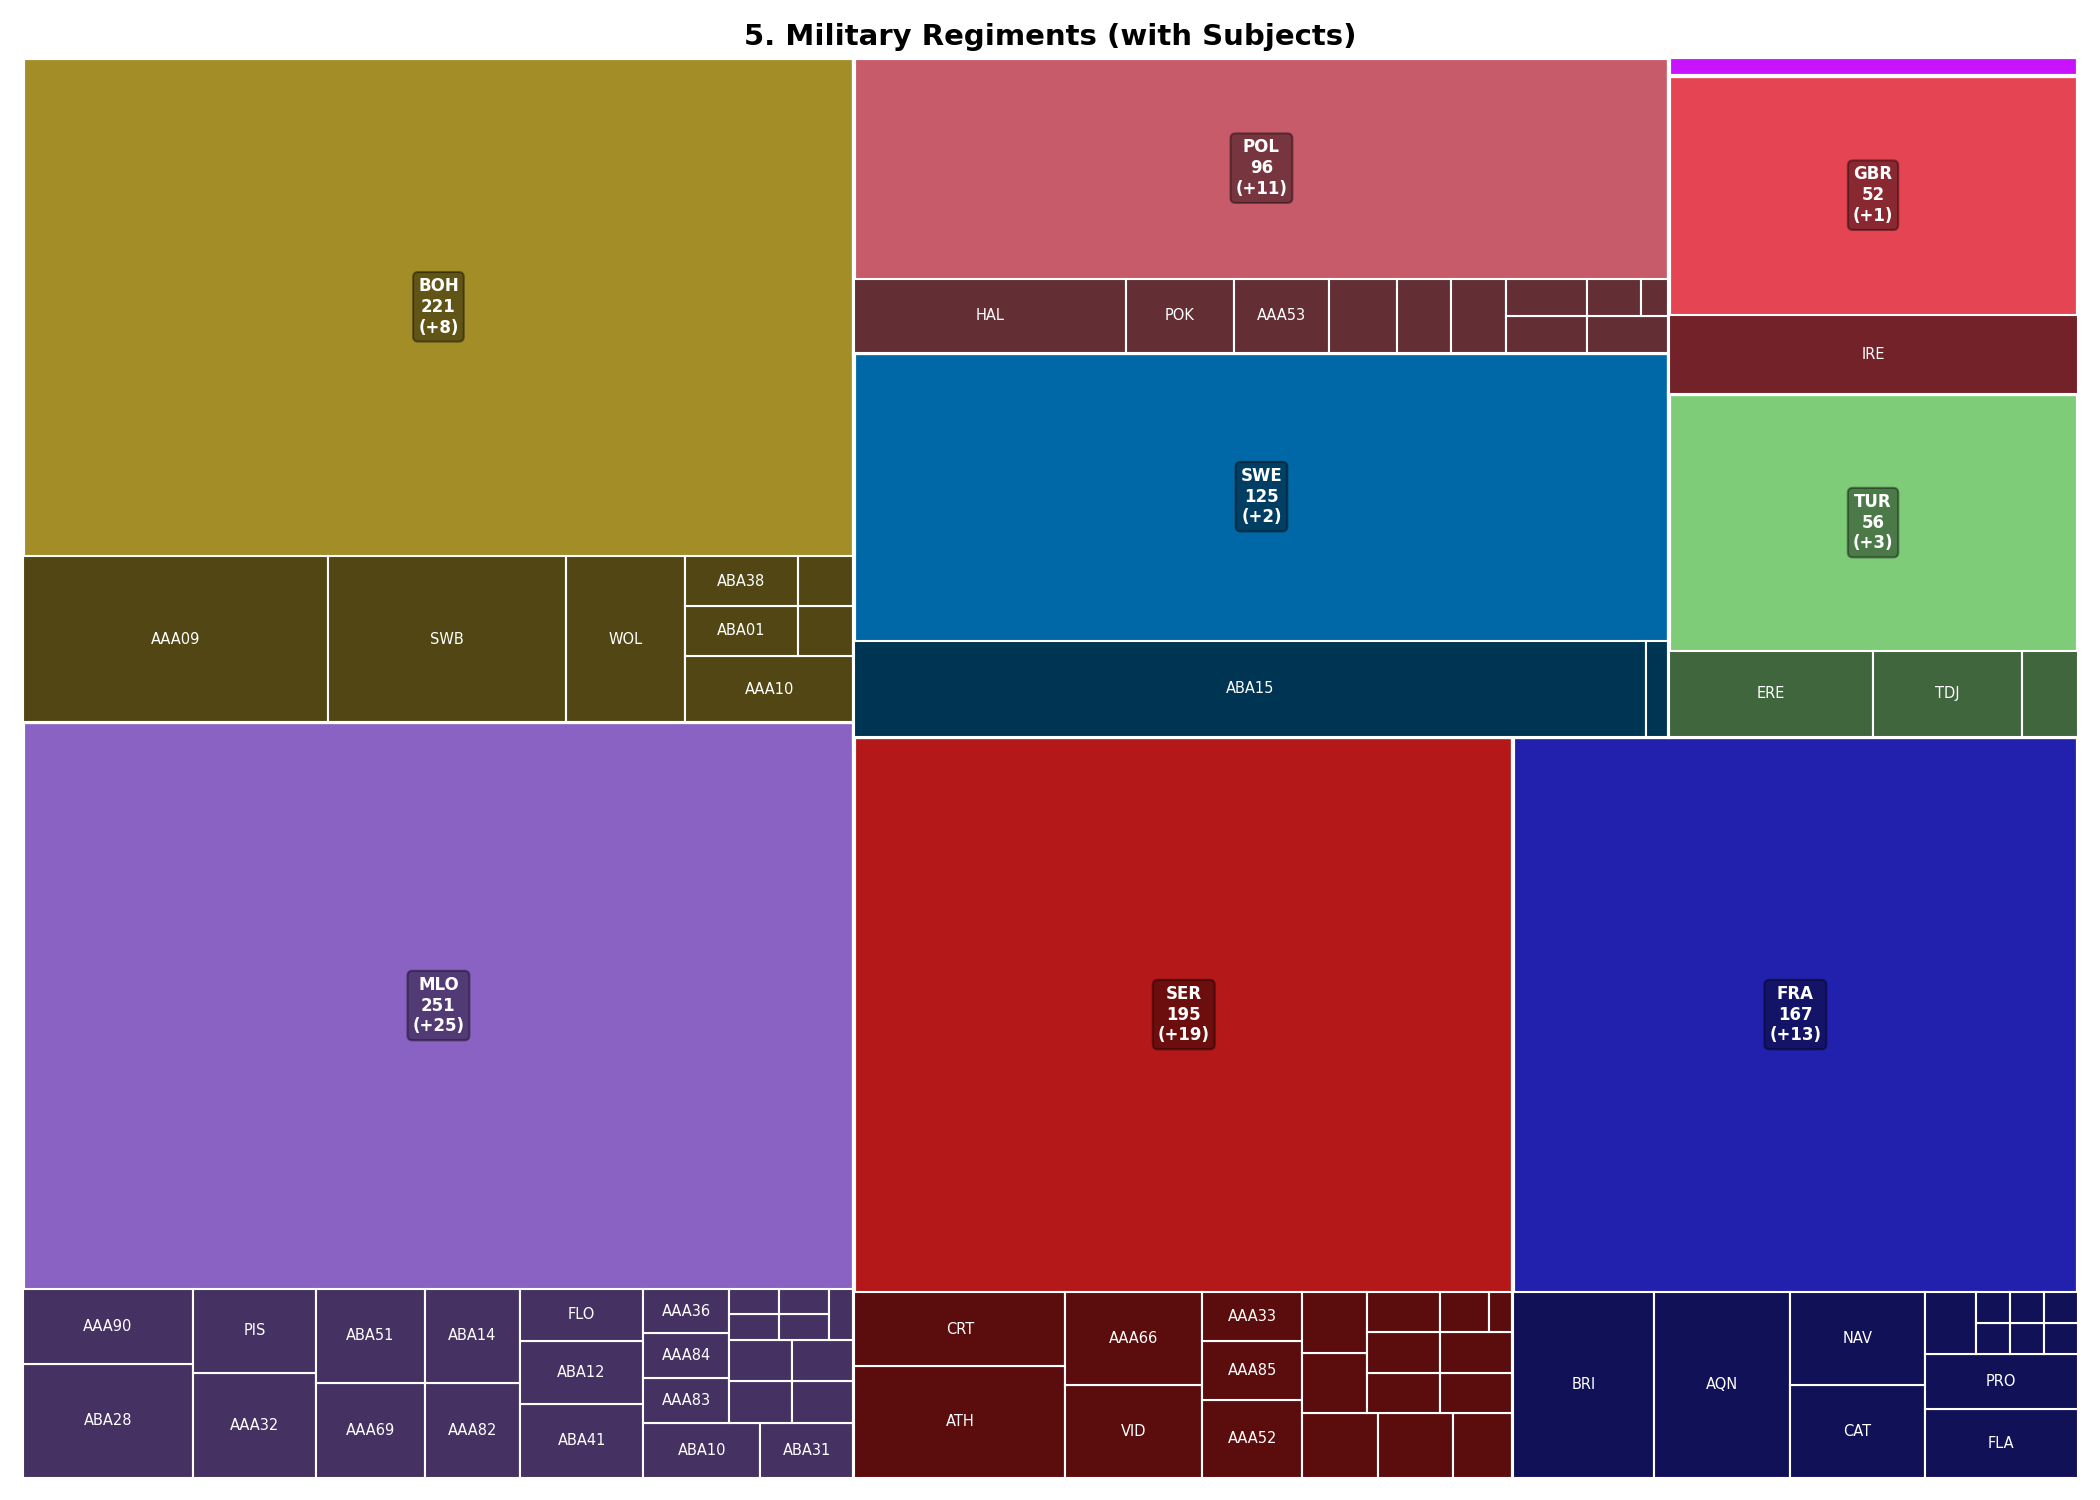
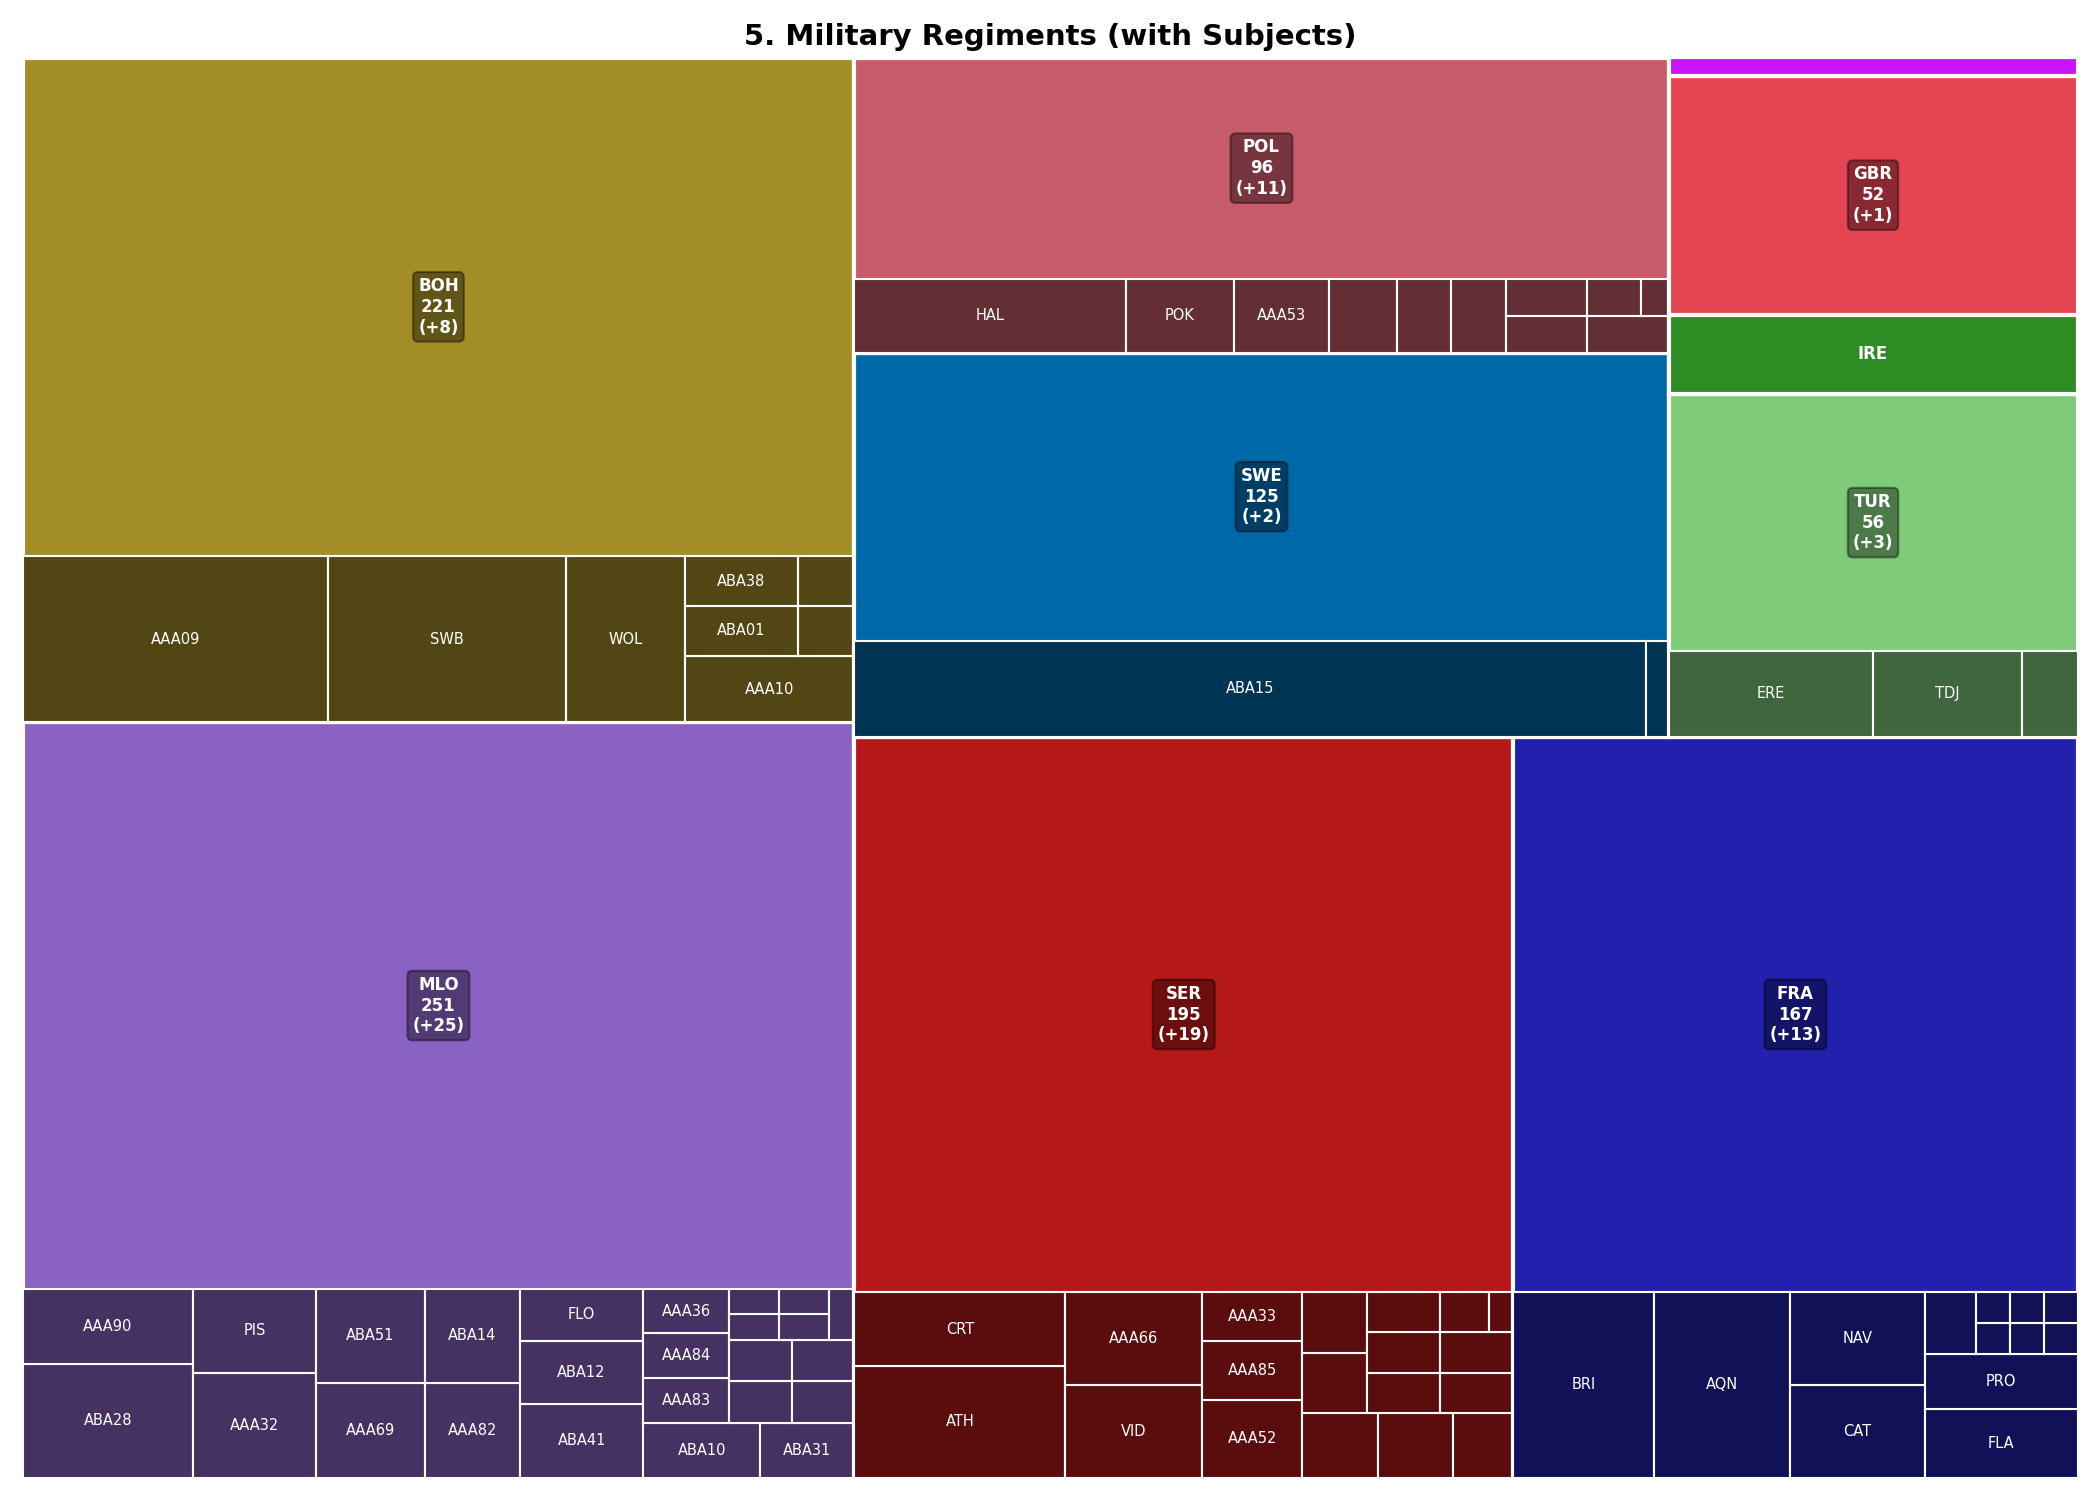
Show player-controlled subjects with their own color in treemaps
- Player subjects (e.g., IRE under GBR) now display with their own color
- Player subjects show their own nested subjects inside their box
- Player subjects have thicker borders and bold labels
- AI subjects continue to use darkened overlord color

Changed region(s): [[0.7738, 0.184, 0.9905, 0.276]]

diff --git a/compare_players_v2.py b/compare_players_v2.py
@@ -570,8 +570,11 @@ def simple_treemap(ax, sizes, labels, colors, title):
         horizontal = not horizontal
 
 
-def nested_treemap_with_subjects(ax, countries, color_map, get_country_value, get_subject_value, title):
-    """Create a treemap with nested subject boxes inside each country's box using squarify."""
+def nested_treemap_with_subjects(ax, countries, color_map, get_country_value, get_subject_value, title, player_tags=None):
+    """Create a treemap with nested subject boxes inside each country's box using squarify.
+
+    Player-controlled subjects get their own color and show their own subjects nested inside.
+    """
     import matplotlib.patches as mpatches
 
     try:
@@ -580,14 +583,26 @@ def nested_treemap_with_subjects(ax, countries, color_map, get_country_value, ge
         ax.text(0.5, 0.5, "squarify not installed", ha='center', va='center')
         return
 
-    # Build data: (country, own_value, subject_values, total_value)
+    if player_tags is None:
+        player_tags = set()
+    else:
+        player_tags = set(player_tags)
+
+    # Build subject lookup by tag for player-controlled subjects
+    subject_lookup = {c.tag: c for c in countries}
+    for c in countries:
+        for s in c.subject_data:
+            subject_lookup[s.tag] = s
+
+    # Build data: (country, own_value, subject_data_list, total_value)
     data = []
     for c in countries:
         country_val = get_country_value(c)
-        subject_vals = [(s.tag, get_subject_value(s)) for s in c.subject_data if get_subject_value(s) > 0]
-        total_val = country_val + sum(sv for _, sv in subject_vals)
+        # Get subject stats objects, not just (tag, value) tuples
+        subject_list = [(s, get_subject_value(s)) for s in c.subject_data if get_subject_value(s) > 0]
+        total_val = country_val + sum(sv for _, sv in subject_list)
         if total_val > 0:
-            data.append((c, country_val, subject_vals, total_val))
+            data.append((c, country_val, subject_list, total_val))
 
     if not data:
         return
@@ -604,7 +619,65 @@ def nested_treemap_with_subjects(ax, countries, color_map, get_country_value, ge
     ax.axis('off')
     ax.set_title(title, fontsize=14, fontweight='bold')
 
-    for i, (c, country_val, subject_vals, total_val) in enumerate(data):
+    def draw_subjects_in_box(subjects_with_vals, box_x, box_y, box_w, box_h, parent_color, depth=0):
+        """Recursively draw subjects in a box. Player subjects get own color and show their subjects."""
+        if not subjects_with_vals or box_w < 3 or box_h < 3:
+            return
+
+        subj_sizes = [sv for _, sv in sorted(subjects_with_vals, key=lambda x: x[1], reverse=True)]
+        subj_objs = [s for s, _ in sorted(subjects_with_vals, key=lambda x: x[1], reverse=True)]
+
+        if not subj_sizes:
+            return
+
+        subj_rects = squarify.normalize_sizes(subj_sizes, box_w, box_h)
+        subj_rects = squarify.squarify(subj_rects, box_x, box_y, box_w, box_h)
+
+        for j, sr in enumerate(subj_rects):
+            if j >= len(subj_objs):
+                break
+            subj = subj_objs[j]
+            sx, sy, sw, sh = sr['x'], sr['y'], sr['dx'], sr['dy']
+
+            is_player_subject = subj.tag in player_tags
+
+            if is_player_subject:
+                # Player-controlled subject: use their own color
+                subj_color = color_map.get(subj.tag, (0.5, 0.5, 0.5))
+                border_width = 2
+            else:
+                # AI subject: darker shade of parent color
+                subj_color = (parent_color[0] * 0.5, parent_color[1] * 0.5, parent_color[2] * 0.5)
+                border_width = 1
+
+            subj_rect = mpatches.Rectangle((sx, sy), sw, sh,
+                                           facecolor=subj_color, edgecolor='white', linewidth=border_width)
+            ax.add_patch(subj_rect)
+
+            # If player subject has its own subjects, draw them nested (bottom 30% of their box)
+            if is_player_subject and subj.subject_data and sw > 5 and sh > 5:
+                nested_subjs = [(ns, get_subject_value(ns)) for ns in subj.subject_data if get_subject_value(ns) > 0]
+                if nested_subjs:
+                    nested_h = sh * 0.30
+                    draw_subjects_in_box(nested_subjs, sx, sy, sw, nested_h, subj_color, depth + 1)
+                    # Adjust label position for player subject with nested subjects
+                    label_y = sy + nested_h + (sh - nested_h) / 2
+                else:
+                    label_y = sy + sh / 2
+            else:
+                label_y = sy + sh / 2
+
+            # Label if big enough
+            if sw > 4 and sh > 3:
+                fontsize = 8 if is_player_subject else 7
+                label_text = subj.tag
+                if is_player_subject and subj.subject_data:
+                    label_text += f"\n+{len(subj.subject_data)}"
+                ax.text(sx + sw / 2, label_y, label_text,
+                       ha='center', va='center', fontsize=fontsize, color='white',
+                       fontweight='bold' if is_player_subject else 'normal')
+
+    for i, (c, country_val, subject_list, total_val) in enumerate(data):
         r = rects[i]
         x, y, w, h = r['x'], r['y'], r['dx'], r['dy']
         color = color_map.get(c.tag, (0.5, 0.5, 0.5))
@@ -614,42 +687,20 @@ def nested_treemap_with_subjects(ax, countries, color_map, get_country_value, ge
         ax.add_patch(rect)
 
         # Draw nested subjects inside (bottom portion)
-        if subject_vals and w > 5 and h > 5:
+        if subject_list and w > 5 and h > 5:
             # Subjects take bottom 25% of the box
             subj_height = h * 0.25
-            subj_y = y
-
-            # Use squarify for subject layout within the country box
-            subj_sizes = [sv for _, sv in sorted(subject_vals, key=lambda x: x[1], reverse=True)]
-            subj_tags = [st for st, _ in sorted(subject_vals, key=lambda x: x[1], reverse=True)]
-
-            if subj_sizes:
-                subj_rects = squarify.normalize_sizes(subj_sizes, w, subj_height)
-                subj_rects = squarify.squarify(subj_rects, x, subj_y, w, subj_height)
-
-                for j, sr in enumerate(subj_rects):
-                    if j >= len(subj_tags):
-                        break
-                    sx, sy, sw, sh = sr['x'], sr['y'], sr['dx'], sr['dy']
-                    # Darker shade for subjects
-                    subj_color = (color[0] * 0.5, color[1] * 0.5, color[2] * 0.5)
-                    subj_rect = mpatches.Rectangle((sx, sy), sw, sh,
-                                                   facecolor=subj_color, edgecolor='white', linewidth=1)
-                    ax.add_patch(subj_rect)
-                    # Label if big enough
-                    if sw > 4 and sh > 3:
-                        ax.text(sx + sw / 2, sy + sh / 2, subj_tags[j],
-                               ha='center', va='center', fontsize=7, color='white')
+            draw_subjects_in_box(subject_list, x, y, w, subj_height, color)
 
         # Main label (centered in upper portion if subjects, else centered)
-        if subject_vals:
+        if subject_list:
             cx, cy = x + w / 2, y + h * 0.25 + (h * 0.75) / 2
         else:
             cx, cy = x + w / 2, y + h / 2
 
         label = f"{c.tag}\n{total_val:,.0f}"
-        if subject_vals:
-            label += f"\n(+{len(subject_vals)})"
+        if subject_list:
+            label += f"\n(+{len(subject_list)})"
 
         # Adjust font size based on box size
         fontsize = min(12, max(8, int(min(w, h) / 8)))
@@ -734,12 +785,16 @@ def create_graphs(countries: list[CountryStats], save_dir: Path):
 
     # === TREEMAP CHARTS (with subjects) ===
 
+    # Get all player tags for identifying player-controlled subjects
+    player_tag_set = set(c.tag for c in countries)
+
     # Treemap: Population with Subjects
     fig, ax = plt.subplots(figsize=(14, 10))
     countries_sorted = sorted(independent_countries, key=lambda c: c.total_population, reverse=True)
     nested_treemap_with_subjects(ax, countries_sorted, color_map,
                                 lambda c: c.population, lambda s: s.population,
-                                f'{chart_num}. Population (with Subjects)')
+                                f'{chart_num}. Population (with Subjects)',
+                                player_tags=player_tag_set)
     plt.tight_layout()
     plt.savefig(save_dir / f'{chart_num:02d}_treemap_population.png', dpi=150)
     print(f"  Saved: {chart_num:02d}_treemap_population.png")
@@ -751,7 +806,8 @@ def create_graphs(countries: list[CountryStats], save_dir: Path):
     countries_sorted = sorted(independent_countries, key=lambda c: c.total_tax_base, reverse=True)
     nested_treemap_with_subjects(ax, countries_sorted, color_map,
                                 lambda c: c.current_tax_base, lambda s: s.current_tax_base,
-                                f'{chart_num}. Tax Base (with Subjects)')
+                                f'{chart_num}. Tax Base (with Subjects)',
+                                player_tags=player_tag_set)
     plt.tight_layout()
     plt.savefig(save_dir / f'{chart_num:02d}_treemap_taxbase.png', dpi=150)
     print(f"  Saved: {chart_num:02d}_treemap_taxbase.png")
@@ -763,7 +819,8 @@ def create_graphs(countries: list[CountryStats], save_dir: Path):
     countries_sorted = sorted(independent_countries, key=lambda c: c.num_subunits + sum(s.num_subunits for s in c.subject_data), reverse=True)
     nested_treemap_with_subjects(ax, countries_sorted, color_map,
                                 lambda c: c.num_subunits, lambda s: s.num_subunits,
-                                f'{chart_num}. Military Regiments (with Subjects)')
+                                f'{chart_num}. Military Regiments (with Subjects)',
+                                player_tags=player_tag_set)
     plt.tight_layout()
     plt.savefig(save_dir / f'{chart_num:02d}_treemap_military.png', dpi=150)
     print(f"  Saved: {chart_num:02d}_treemap_military.png")
@@ -775,7 +832,8 @@ def create_graphs(countries: list[CountryStats], save_dir: Path):
     countries_sorted = sorted(independent_countries, key=lambda c: c.max_manpower + sum(s.max_manpower for s in c.subject_data), reverse=True)
     nested_treemap_with_subjects(ax, countries_sorted, color_map,
                                 lambda c: c.max_manpower, lambda s: s.max_manpower,
-                                f'{chart_num}. Manpower (with Subjects)')
+                                f'{chart_num}. Manpower (with Subjects)',
+                                player_tags=player_tag_set)
     plt.tight_layout()
     plt.savefig(save_dir / f'{chart_num:02d}_treemap_manpower.png', dpi=150)
     print(f"  Saved: {chart_num:02d}_treemap_manpower.png")
